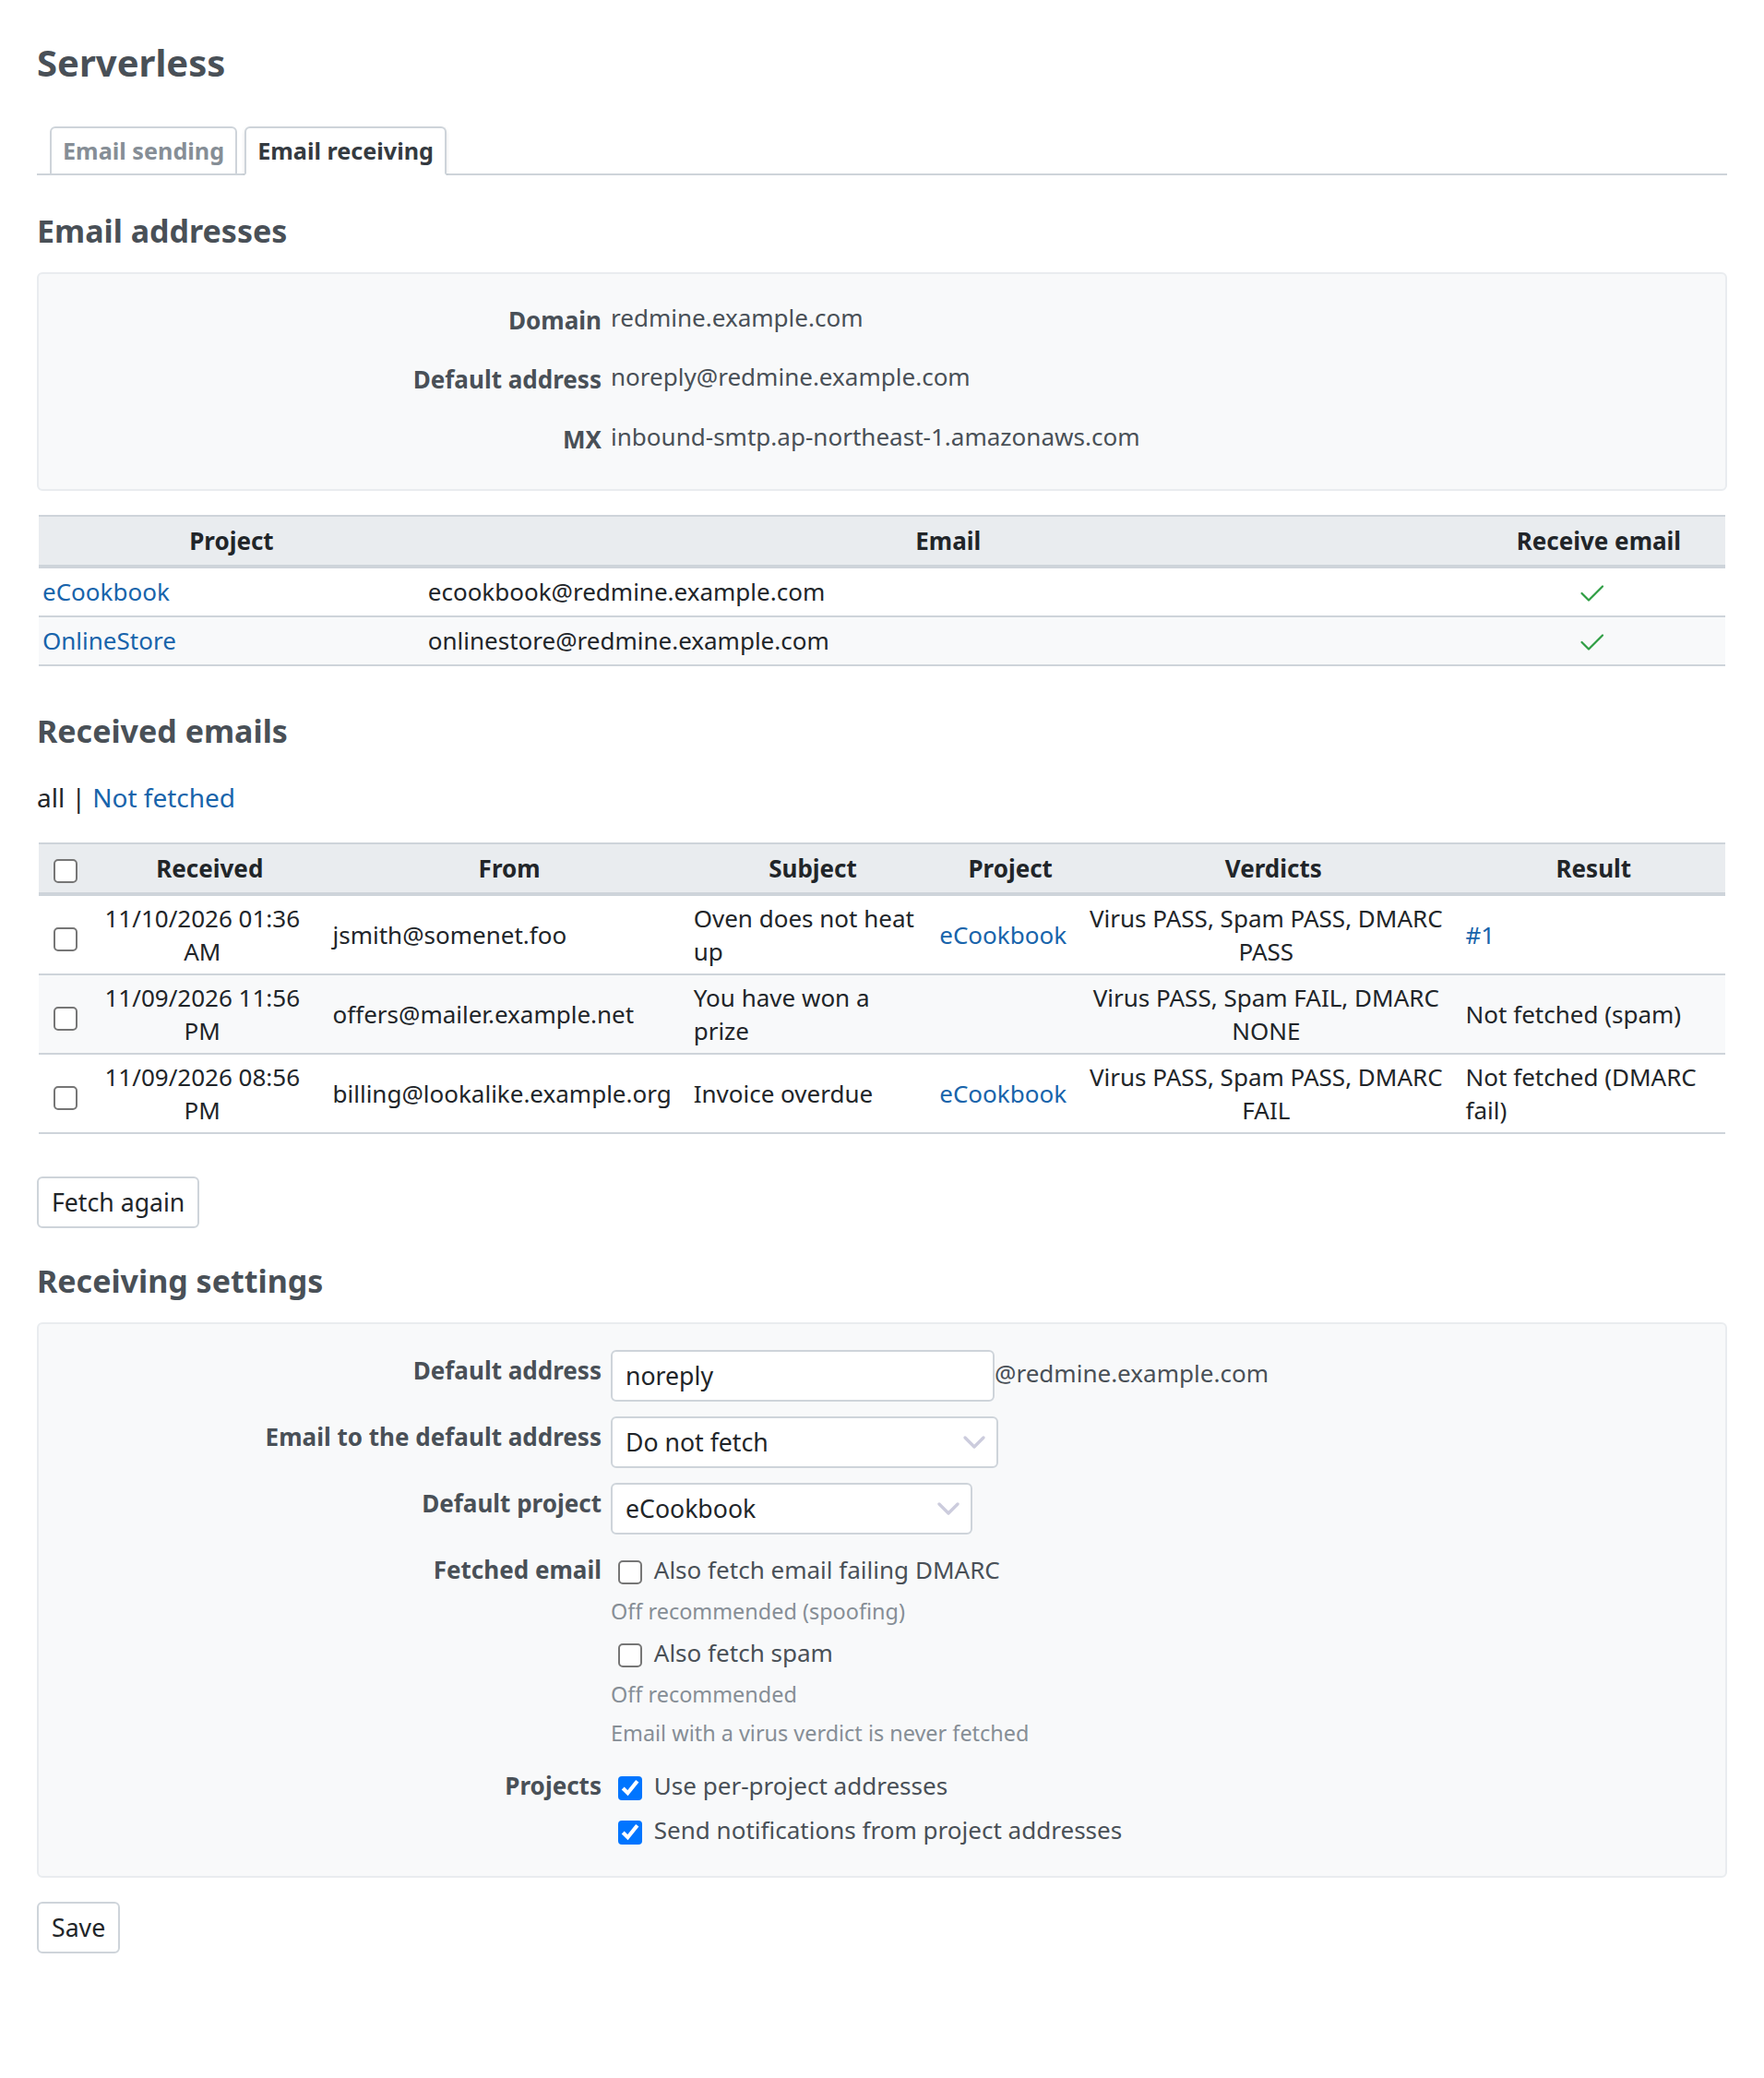
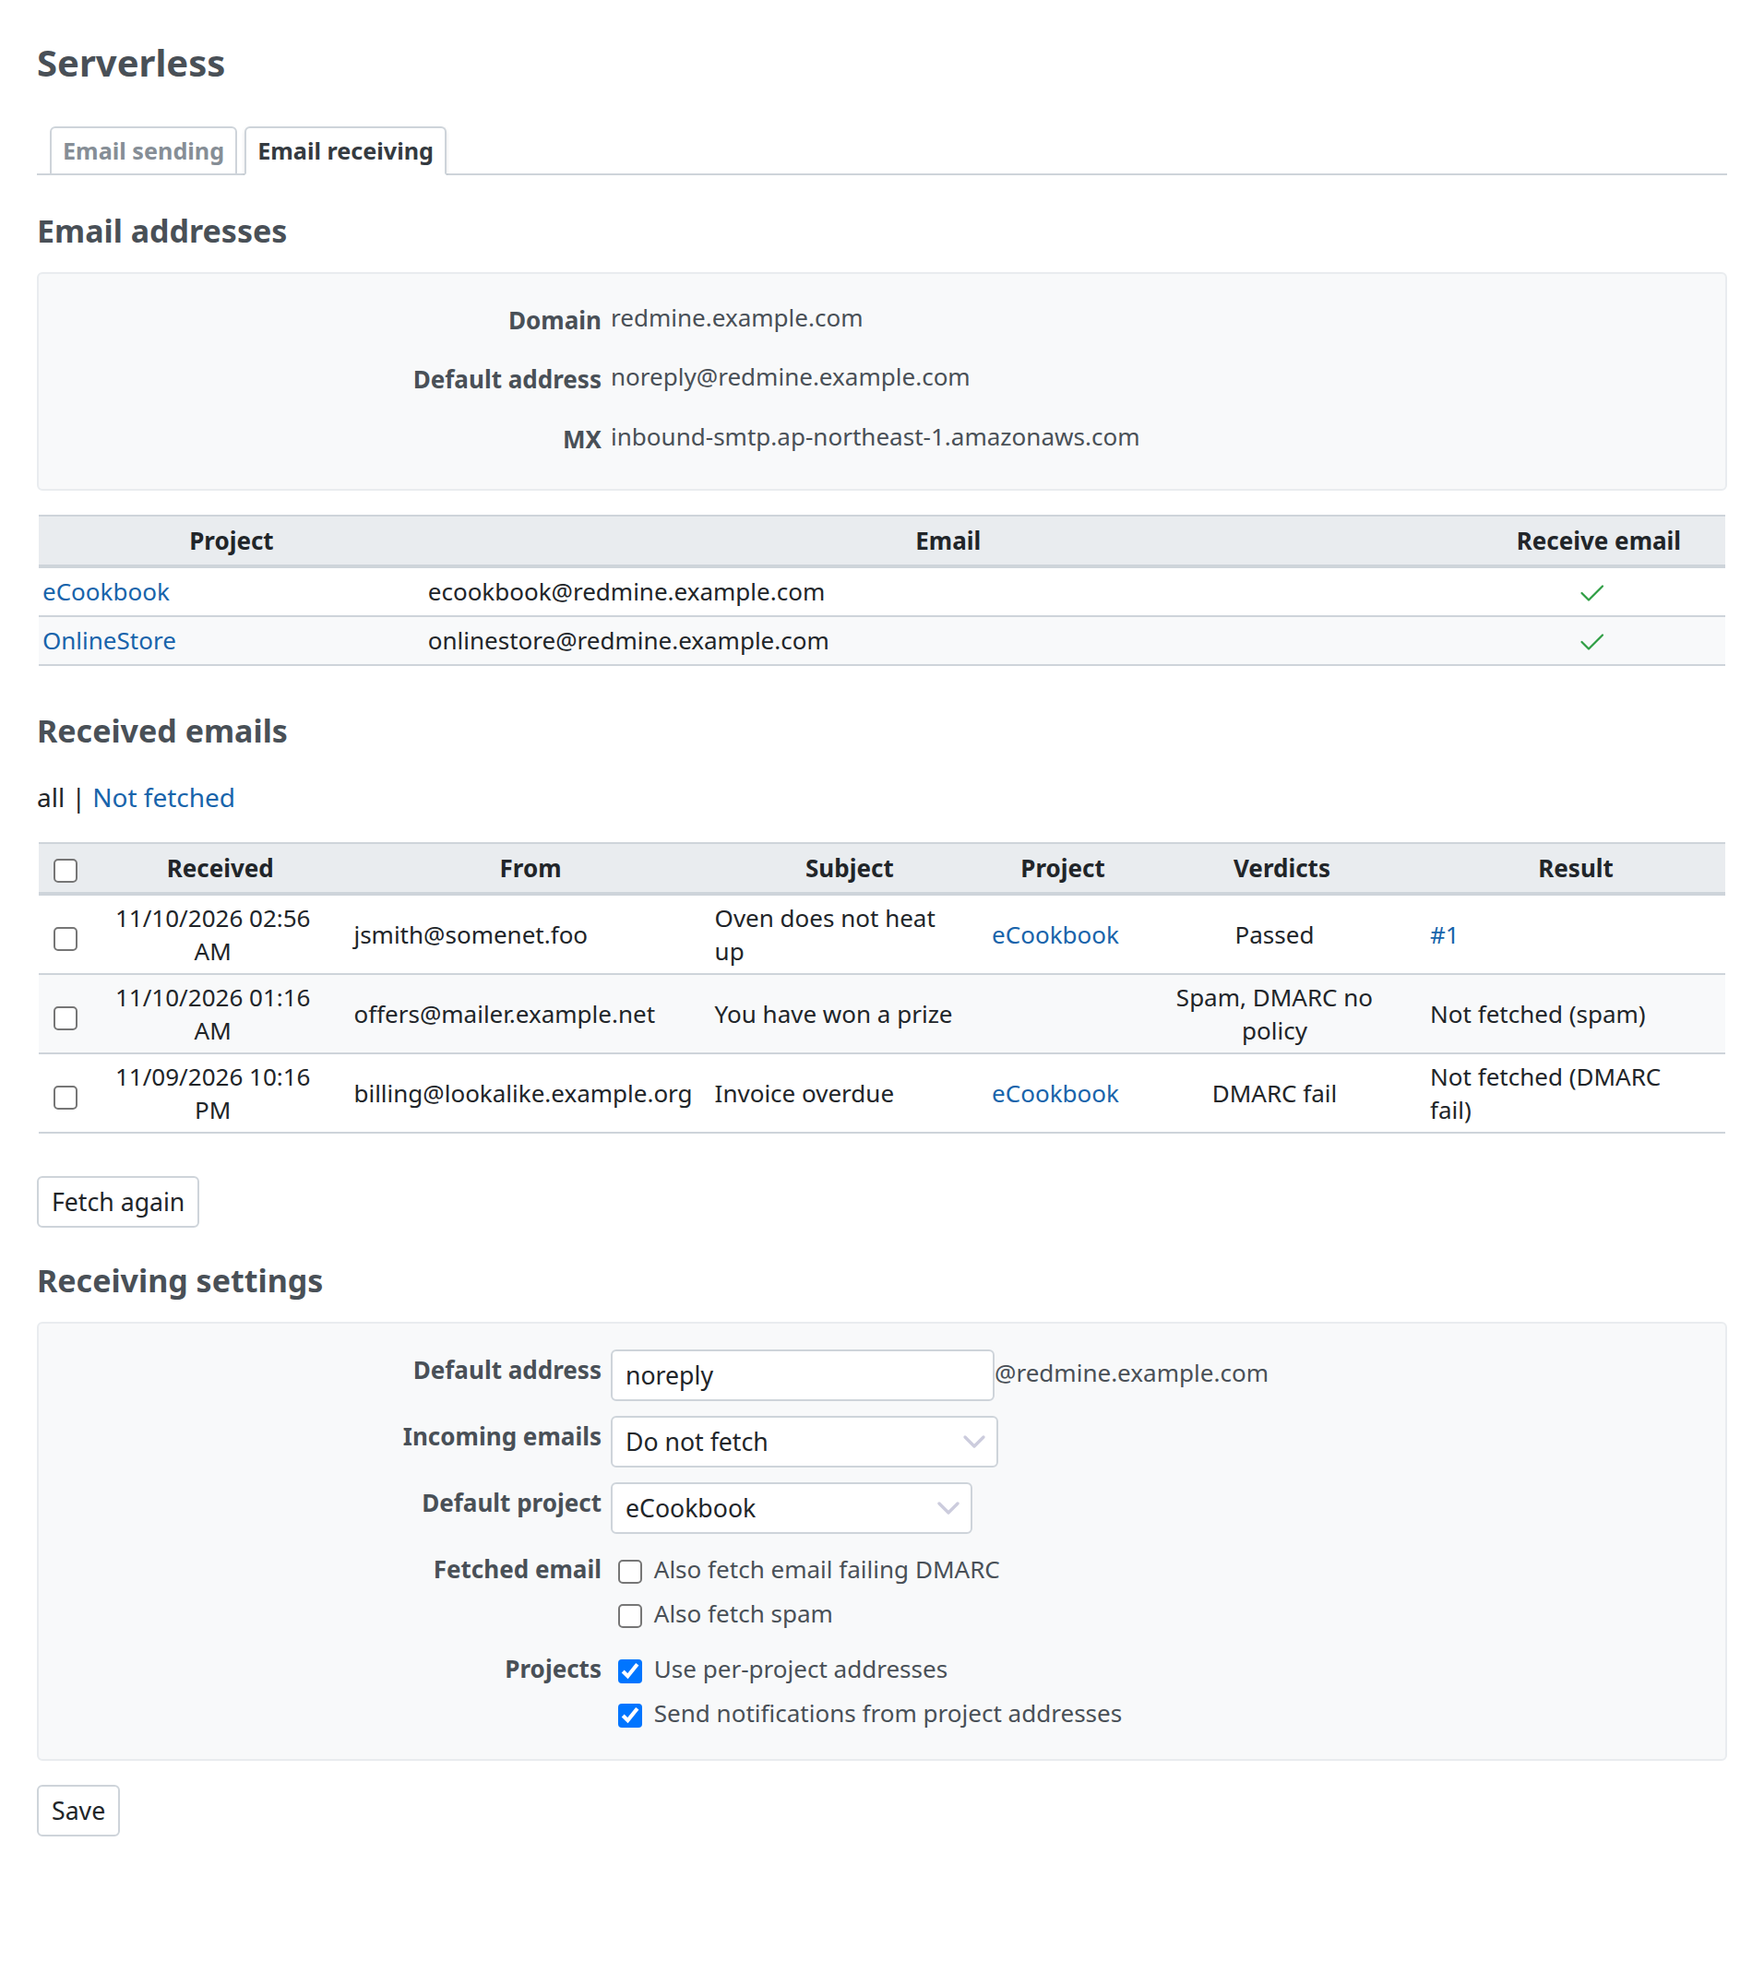
Retake the email screenshots with the verdict labels
The example spam has a GRAY DMARC verdict, a value SES gives, instead of NONE.

diff --git a/test/screenshots/screens.rb b/test/screenshots/screens.rb
@@ -78,7 +78,7 @@ class RedmineServerlessSesScreens < ScreenshotCase
       ['jsmith@somenet.foo', 'Oven does not heat up', "cookbook@#{DOMAIN}", 1, 'imported', nil, 'Issue', 1,
        %w[PASS PASS PASS], 20.minutes],
       ['offers@mailer.example.net', 'You have won a prize', "redmine@#{DOMAIN}", nil, 'dropped', 'spam', nil, nil,
-       %w[FAIL PASS NONE], 2.hours],
+       %w[FAIL PASS GRAY], 2.hours],
       ['billing@lookalike.example.org', 'Invoice overdue', "cookbook@#{DOMAIN}", 1, 'dropped', 'dmarc', nil, nil,
        %w[PASS PASS FAIL], 5.hours]
     ].each_with_index do |(from, subject, to, project, status, reason, type, id, (spam, virus, dmarc), ago), index|
